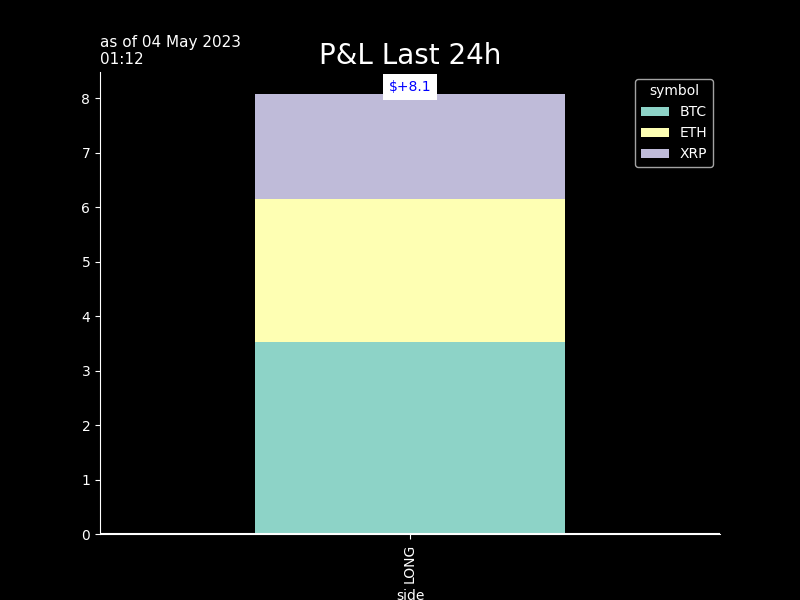
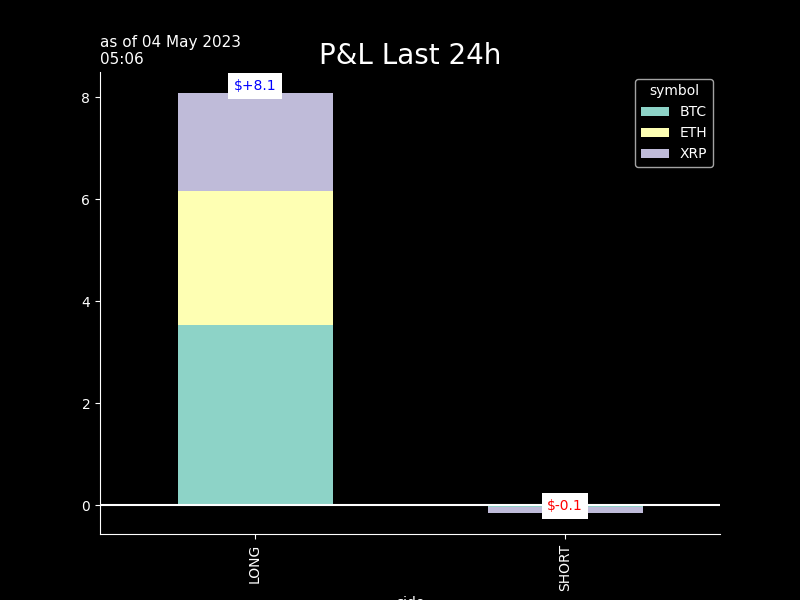
seb_commit

diff --git a/crypto/graphs/bt_trades_book.htmltrade_trades_book.html b/crypto/graphs/bt_trades_book.htmltrade_trades_book.html
@@ -37,55 +37,38 @@
   </thead>
   <tbody>
     <tr>
-      <th>XRPUSDT</th>
-      <td>0.4619</td>
-      <td>2023-05-04 00:06:08</td>
-      <td>-395.600</td>
-      <td>$-182.7</td>
-      <td>$0.04</td>
-      <td>2.0</td>
-      <td>1.9</td>
-      <td>0.46235</td>
-      <td>2023-05-04 01:02</td>
-      <td>-0.2</td>
-      <td>-10.0</td>
-      <td>.4619</td>
-      <td>0.0</td>
-      <td>0.0</td>
-    </tr>
-    <tr>
       <th>BTCUSDT</th>
-      <td>29045.3000</td>
-      <td>2023-05-04 00:04:18</td>
-      <td>-0.006</td>
-      <td>$-174.3</td>
-      <td>$0.04</td>
+      <td>29083.1000</td>
+      <td>2023-05-04 04:05:44</td>
+      <td>0.002</td>
+      <td>$58.2</td>
+      <td>$0.01</td>
       <td>2.0</td>
-      <td>3.5</td>
-      <td>29017.80000</td>
-      <td>2023-05-04 01:02</td>
-      <td>0.2</td>
-      <td>9.0</td>
-      <td>29024.4</td>
-      <td>0.1</td>
-      <td>7.0</td>
+      <td>-0.0</td>
+      <td>29072.85000</td>
+      <td>2023-05-04 05:02</td>
+      <td>-0.0</td>
+      <td>-3.0</td>
+      <td>29078.5</td>
+      <td>-0.0</td>
+      <td>-2.0</td>
     </tr>
     <tr>
-      <th>ETHUSDT</th>
-      <td>1903.9100</td>
-      <td>2023-05-04 00:04:18</td>
-      <td>-0.077</td>
-      <td>$-146.6</td>
-      <td>$0.03</td>
+      <th>XRPUSDT</th>
+      <td>0.4633</td>
+      <td>2023-05-04 04:05:05</td>
+      <td>159.400</td>
+      <td>$73.8</td>
+      <td>$0.01</td>
       <td>2.0</td>
-      <td>2.6</td>
-      <td>1902.96500</td>
-      <td>2023-05-04 01:02</td>
-      <td>0.1</td>
-      <td>5.0</td>
-      <td>1903.12</td>
-      <td>0.1</td>
-      <td>4.0</td>
+      <td>-0.1</td>
+      <td>0.46325</td>
+      <td>2023-05-04 05:02</td>
+      <td>-0.0</td>
+      <td>-1.0</td>
+      <td>.4634</td>
+      <td>0.0</td>
+      <td>3.0</td>
     </tr>
   </tbody>
 </table>

diff --git a/crypto/graphs/bt_trades_recap.htmltrade_trades_recap.html b/crypto/graphs/bt_trades_recap.htmltrade_trades_recap.html
@@ -9,32 +9,32 @@
   <tbody>
     <tr>
       <th>as of</th>
-      <td>04May 00:04&gt;&gt;00:06</td>
-      <td>#trades: 3</td>
+      <td>04May 04:05&gt;&gt;04:05</td>
+      <td>#trades: 2</td>
     </tr>
     <tr>
       <th>trade net</th>
-      <td>-504.0</td>
-      <td>-170.7%</td>
+      <td>+132.0</td>
+      <td>+44.7%</td>
     </tr>
     <tr>
       <th>trade gross</th>
-      <td>+504.0</td>
-      <td>+170.7%</td>
+      <td>+132.0</td>
+      <td>+44.7%</td>
     </tr>
     <tr>
       <th>BUY</th>
+      <td>+132.0</td>
+      <td>+44.7%</td>
+    </tr>
+    <tr>
+      <th>SELL</th>
       <td>+0.0</td>
       <td>+0.0%</td>
     </tr>
     <tr>
-      <th>SELL</th>
-      <td>-504.0</td>
-      <td>-170.7%</td>
-    </tr>
-    <tr>
       <th>fees</th>
-      <td>$ 0.101</td>
+      <td>$ 0.026</td>
       <td>2.0bp</td>
     </tr>
   </tbody>

diff --git a/crypto/graphs/bt_trades_pnlD_recap.htmltrade_trades_pnlD_recap.html b/crypto/graphs/bt_trades_pnlD_recap.htmltrade_trades_pnlD_recap.html
@@ -1,7 +1,7 @@
 <table border="1" class="dataframe">
   <thead>
     <tr style="text-align: right;">
-      <th>04 May 01:06</th>
+      <th>04 May 05:05</th>
       <th>realizedPnl</th>
       <th>PnLvsArrival</th>
       <th>PnLvsLast</th>
@@ -10,21 +10,21 @@
   <tbody>
     <tr>
       <th>in$</th>
-      <td>8.1</td>
-      <td>0.1</td>
-      <td>0.2</td>
+      <td>-0.1</td>
+      <td>-0.0</td>
+      <td>0.0</td>
     </tr>
     <tr>
-      <th>in bp 503 traded</th>
-      <td>160 bp</td>
+      <th>in bp 132 traded</th>
+      <td>-11 bp</td>
+      <td>-2 bp</td>
       <td>1 bp</td>
-      <td>4 bp</td>
     </tr>
     <tr>
       <th>in bp 295 AUMs</th>
-      <td>274 bp</td>
-      <td>2 bp</td>
-      <td>6 bp</td>
+      <td>-5 bp</td>
+      <td>-1 bp</td>
+      <td>0 bp</td>
     </tr>
   </tbody>
 </table>
